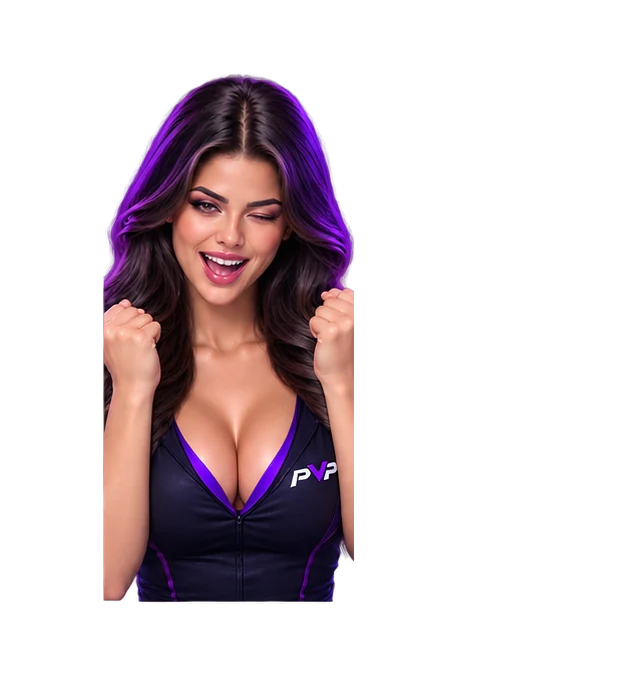
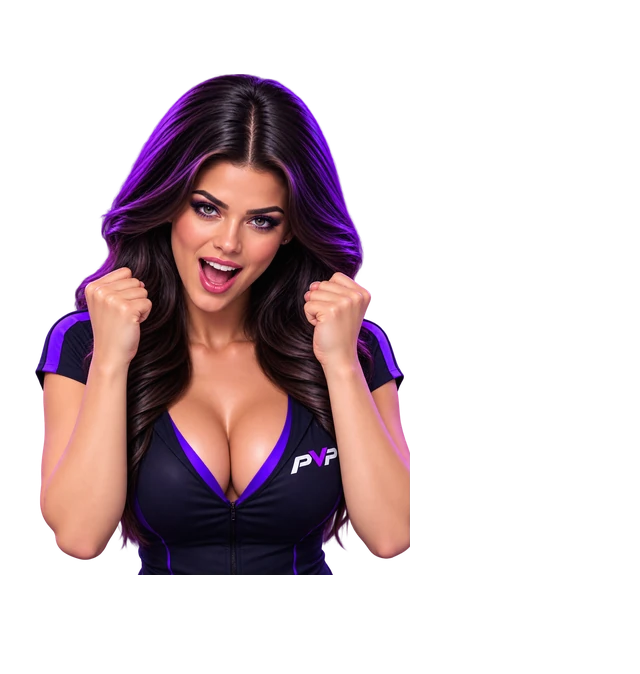
Show both arms in the cheers pose and hold it a second longer.
The win reaction was clipped at the fists. The new cutout stays up for 2.2 seconds, then she returns to the deck.

Changed region(s): [[0.0312, 0.0935, 0.6562, 0.9036]]

diff --git a/tests/dealer-clips.test.ts b/tests/dealer-clips.test.ts
@@ -30,8 +30,8 @@ describe("dealer clips", () => {
     expect(clipActiveMs("deal")).toBeLessThanOrEqual(900);
     expect(clipActiveMs("wink")).toBeGreaterThanOrEqual(300);
     expect(clipActiveMs("wink")).toBeLessThanOrEqual(500);
-    expect(clipActiveMs("celebrate")).toBeGreaterThanOrEqual(1000);
-    expect(clipActiveMs("celebrate")).toBeLessThanOrEqual(1500);
+    expect(clipActiveMs("celebrate")).toBeGreaterThanOrEqual(2000);
+    expect(clipActiveMs("celebrate")).toBeLessThanOrEqual(2500);
   });
 
   it("orders the shuffle and the deal from the poses that actually show that motion", () => {
@@ -88,7 +88,8 @@ describe("dealer clips", () => {
     expect(table.sample(8000).frame).toBe("waiting");
     table.pose("acknowledge", 9000, false);
     expect(table.sample(9000)).toMatchObject({ clip: "celebrate", frame: "celebrate" });
-    expect(table.sample(10200)).toMatchObject({ clip: "idle", frame: "idle" });
+    expect(table.sample(10200)).toMatchObject({ clip: "celebrate", frame: "celebrate" });
+    expect(table.sample(11200)).toMatchObject({ clip: "idle", frame: "idle" });
   });
 
   it("holds one resting pose when motion is reduced", () => {

diff --git a/src/lib/poker/dealer-clips.ts b/src/lib/poker/dealer-clips.ts
@@ -88,7 +88,7 @@ export const DEALER_CLIPS = {
     rank: 30,
     hold: false,
     then: "idle",
-    frames: [{ frame: "celebrate", ms: 1200 }],
+    frames: [{ frame: "celebrate", ms: 2200 }],
   },
   // Single poses. There is no travel into the point, the fan, or the frown.
   // The finger-on-chin cutout (playful-2) and the file named thoughtful (a point
